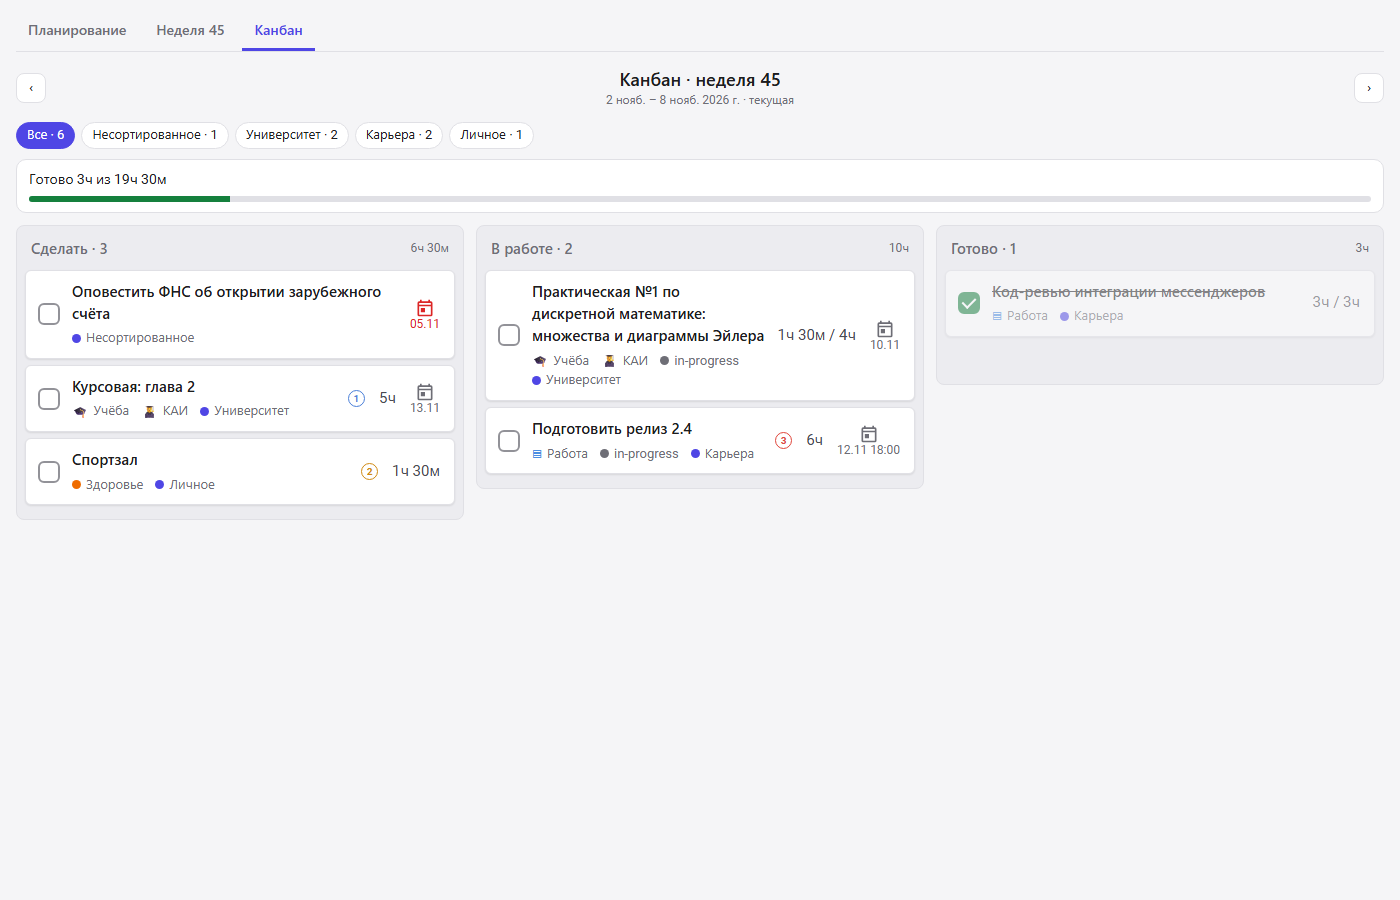
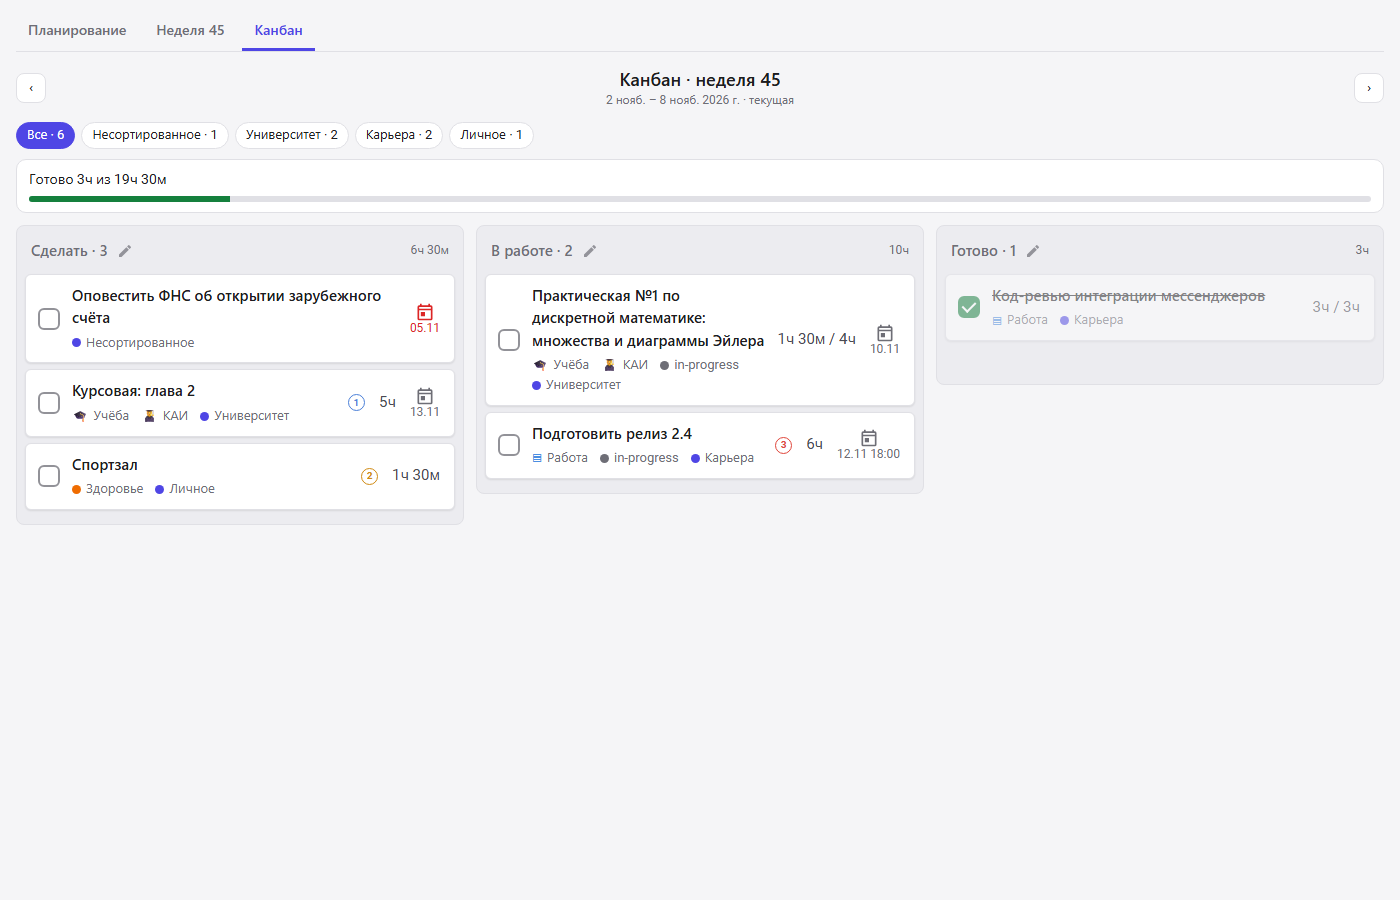
0.11.0: filter & sort for every board column
A pencil button right of the column title opens the filter & sort editor
for that column on the week page (per category) and on the kanban (per status).
The filter only hides cards; hours and limits count all tasks of the column.
Stored in cfg.colViews; a column without own settings uses the common card order.

diff --git a/week-planner/index.html b/week-planner/index.html
@@ -170,6 +170,14 @@
   .bcol.over { border-color: var(--bad); }
   .bcol-head { display: flex; flex-wrap: wrap; align-items: center; justify-content: space-between; gap: 4px 8px; padding: 0 6px; margin-bottom: 10px; color: var(--soft); }
   .bcol-title { font-weight: 600; font-size: 15px; color: var(--muted); }
+  .bcol-name { display: inline-flex; align-items: center; gap: 4px; min-width: 0; }
+  .edit-btn {
+    display: inline-flex; align-items: center; justify-content: center; width: 26px; height: 26px; padding: 0;
+    border: 0; border-radius: 50%; background: transparent; color: var(--muted); opacity: .7;
+  }
+  .edit-btn svg { width: 16px; height: 16px; fill: currentColor; }
+  .edit-btn:hover:not(:disabled) { opacity: 1; color: var(--text); background: var(--accent-soft); }
+  .edit-btn.on { opacity: 1; color: var(--accent); }
   .bcol .bar { margin: 0 6px 10px; flex-basis: auto; }
   .bcol .item { margin-bottom: 6px; }
 
@@ -441,6 +449,10 @@
       edCats: 'Categories and default limits', edCatsHint: 'Categories are the same for every week. Default limits apply to every week except weeks where you set own limits on the week page.',
       catName: 'Name', catLimit: 'default, h', addCat: '+ Category', weekLimit: 'Default week limit, hours',
       cardSort: 'Card order inside columns', untitled: 'Untitled',
+      colEdit: 'Filter & sort of this column', edCol: 'Column «{name}»: filter & sort',
+      edColHint: 'The filter only hides cards. Hours and limits count all tasks of the column.',
+      colHidden: 'hidden {n}', colHiddenTitle: 'Hidden by the column filter. They still count toward the hours.',
+      previewCol: 'Shown now: {a} of {n}', colReset: 'Reset to default',
       edPool: 'Unplanned tasks: filter & sort', noFilter: 'no filter', sortBy: 'sort',
       match: 'Show tasks that match', matchAll: 'all conditions', matchAny: 'any condition',
       conds: 'Conditions', addCond: '+ Condition', sort: 'Sorting', addSort: '+ Sort key',
@@ -521,6 +533,10 @@
       edCats: 'Категории и стандартные лимиты', edCatsHint: 'Категории общие для всех недель. Стандартные лимиты получают все недели, кроме тех, где вы задали свои лимиты на вкладке недели.',
       catName: 'Название', catLimit: 'стандарт, ч', addCat: '+ Категория', weekLimit: 'Стандартный лимит недели, часов',
       cardSort: 'Порядок карточек в колонках', untitled: 'Без названия',
+      colEdit: 'Фильтр и сортировка колонки', edCol: 'Колонка «{name}»: фильтр и сортировка',
+      edColHint: 'Фильтр только скрывает карточки. Часы и лимиты учитывают все задачи колонки.',
+      colHidden: 'скрыто {n}', colHiddenTitle: 'Скрыты фильтром колонки. Часы и лимиты их учитывают.',
+      previewCol: 'Сейчас показано: {a} из {n}', colReset: 'Сбросить',
       edPool: 'Незапланированные задачи: фильтр и сортировка', noFilter: 'без фильтра', sortBy: 'сортировка',
       match: 'Показывать задачи, которые подходят под', matchAll: 'все условия', matchAny: 'любое условие',
       conds: 'Условия', addCond: '+ Условие', sort: 'Сортировка', addSort: '+ Ключ сортировки',
@@ -855,6 +871,50 @@
     return Array.isArray(s) ? s.filter(function (x) { return x && x.field; }) : d;
   }
 
+  // Own filter and sort of a board column. Keys: 'w:<category id>' (week page), 'k:<status>' (kanban).
+  function normColViews(raw) {
+    var out = {};
+    if (!raw || typeof raw !== 'object') return out;
+    Object.keys(raw).forEach(function (k) {
+      var v = raw[k];
+      if (!v || typeof v !== 'object') return;
+      out[k] = {
+        match: v.match === 'any' ? 'any' : 'all',
+        conds: Array.isArray(v.conds) ? v.conds.filter(function (c) { return c && c.field && c.op; }) : [],
+        sort: normSort(v.sort, null)
+      };
+    });
+    return out;
+  }
+  // A stored sort of null means "use the common card order".
+  function colView(key) {
+    var v = (state.cfg.colViews || {})[key];
+    return { match: v ? v.match : 'all', conds: v ? v.conds : [], sort: v && v.sort ? v.sort : state.cfg.cardSort, own: !!v };
+  }
+  // Applies the column view: returns the shown cards and the number of hidden ones.
+  function colItems(key, tasks) {
+    var v = colView(key);
+    var shown = sortTasks(tasks.filter(function (x) { return matchView(x, v); }), v.sort);
+    return { shown: shown, hidden: tasks.length - shown.length, own: v.own };
+  }
+  var PENCIL = '<svg viewBox="0 0 24 24" aria-hidden="true"><path d="M3 17.25V21h3.75L17.81 9.94l-3.75-3.75L3 17.25zM20.71 ' +
+    '7.04a1 1 0 0 0 0-1.41l-2.34-2.34a1 1 0 0 0-1.41 0l-1.83 1.83 3.75 3.75 1.83-1.83z"/></svg>';
+  function colHead(key, name, tasks, view, right) {
+    var btn = el('button', {
+      type: 'button', className: 'edit-btn' + (view.own ? ' on' : ''), title: t('colEdit'), 'aria-label': t('colEdit'),
+      onclick: stop(function () { openEditor('col', { key: key, name: name, tasks: tasks }); })
+    });
+    btn.innerHTML = PENCIL;
+    return el('div', { className: 'bcol-head' }, [
+      el('span', { className: 'bcol-name' }, [
+        el('span', { className: 'bcol-title', text: name + ' · ' + tasks.length }),
+        btn,
+        view.hidden ? el('span', { className: 'muted', title: t('colHiddenTitle'), text: t('colHidden', { n: view.hidden }) }) : null
+      ]),
+      right
+    ]);
+  }
+
   function normCfg(raw) {
     var d = defaultCfg();
     if (!raw || typeof raw !== 'object') return d;
@@ -870,7 +930,8 @@
       weekLimitH: posNum(raw.weekLimitH),
       cardSort: normSort(raw.cardSort, d.cardSort),
       poolPreset: typeof raw.poolPreset === 'string' ? raw.poolPreset : null,
-      progressTagInit: raw.progressTagInit === true
+      progressTagInit: raw.progressTagInit === true,
+      colViews: normColViews(raw.colViews)
     };
     if (Array.isArray(raw.cats)) {
       cfg.cats = raw.cats.filter(function (c) { return c && c.id; }).map(function (c) {
@@ -1790,13 +1851,13 @@
     $('addInput').placeholder = t('addPh', { c: catName(catById(UNSORTED)) });
 
     fill($('weekBoard'), state.cfg.cats.map(function (c) {
-      var items = sortTasks(ld.tasks.filter(function (x) { return catIdOf(x) === c.id; }), state.cfg.cardSort);
+      var all = ld.tasks.filter(function (x) { return catIdOf(x) === c.id; });
+      var view = colItems('w:' + c.id, all);
+      var items = view.shown;
       var h = ld.cats[c.id].h, l = limMs(catLimitH(w, c)), isOver = !!l && h > l;
       var col = el('div', { className: 'bcol' + (isOver ? ' over' : '') }, [
-        el('div', { className: 'bcol-head' }, [
-          el('span', { className: 'bcol-title', text: catName(c) + ' · ' + items.length }),
-          el('span', { className: 'hours' + (isOver ? ' over' : '') }, [fmtDur(h) + ' /', limitInput(c.id), t('h')])
-        ]),
+        colHead('w:' + c.id, catName(c), all, view,
+          el('span', { className: 'hours' + (isOver ? ' over' : '') }, [fmtDur(h) + ' /', limitInput(c.id), t('h')])),
         l ? loadBar(h, l) : null,
         isOver ? el('div', { className: 'muted bad-text', style: 'margin-bottom:6px', text: '⚠ ' + t('over', { t: fmtDur(h - l) }) }) : null,
         items.length ? el('ul', { className: 'list' }, items.map(weekCardTask)) : el('p', { className: 'muted empty', text: t('emptyCol') })
@@ -1867,12 +1928,11 @@
     ]);
 
     fill($('kBoard'), STATUSES.map(function (s) {
-      var list = sortTasks(items.filter(function (x) { return statusOf(x) === s; }), state.cfg.cardSort);
+      var all = items.filter(function (x) { return statusOf(x) === s; });
+      var view = colItems('k:' + s, all);
+      var list = view.shown;
       var col = el('div', { className: 'bcol st-' + s }, [
-        el('div', { className: 'bcol-head' }, [
-          el('span', { className: 'bcol-title', text: t('st_' + s) + ' · ' + list.length }),
-          el('span', { className: 'muted', text: fmtDur(hoursOf(list)) })
-        ]),
+        colHead('k:' + s, t('st_' + s), all, view, el('span', { className: 'muted', text: fmtDur(hoursOf(all)) })),
         list.length ? el('ul', { className: 'list' }, list.map(kanbanCard)) : el('p', { className: 'muted empty', text: t('emptyCol') })
       ]);
       makeDropTarget(col, function (id) {
@@ -2211,11 +2271,15 @@
   }
 
   // ---------- editors ----------
-  function openEditor(kind) {
-    var draft = kind === 'pool'
-      ? JSON.parse(JSON.stringify(activePoolView()))
-      : JSON.parse(JSON.stringify({ cats: state.cfg.cats, weekLimitH: state.cfg.weekLimitH, cardSort: state.cfg.cardSort }));
-    editor = { kind: kind, draft: draft, orig: JSON.stringify(draft), armed: null, discardArmed: false };
+  // col: { key, name, tasks } of the board column, for kind 'col'.
+  function openEditor(kind, col) {
+    var draft;
+    if (kind === 'pool') draft = JSON.parse(JSON.stringify(activePoolView()));
+    else if (kind === 'col') {
+      var v = colView(col.key);
+      draft = JSON.parse(JSON.stringify({ match: v.match, conds: v.conds, sort: v.sort }));
+    } else draft = JSON.parse(JSON.stringify({ cats: state.cfg.cats, weekLimitH: state.cfg.weekLimitH, cardSort: state.cfg.cardSort }));
+    editor = { kind: kind, col: col || null, draft: draft, orig: JSON.stringify(draft), armed: null, discardArmed: false };
     $('overlay').hidden = false;
     renderEditor();
   }
@@ -2376,7 +2440,11 @@
   function updatePreview() {
     var p = $('edPreview');
     if (!p || !editor) return;
-    p.textContent = editor.kind === 'pool' ? t('previewPool', { n: poolTasks(editor.draft).length }) : '';
+    if (editor.kind === 'pool') p.textContent = t('previewPool', { n: poolTasks(editor.draft).length });
+    else if (editor.kind === 'col') {
+      var all = editor.col.tasks;
+      p.textContent = t('previewCol', { a: all.filter(function (x) { return matchView(x, editor.draft); }).length, n: all.length });
+    } else p.textContent = '';
   }
 
   function catRows(d) {
@@ -2413,9 +2481,14 @@
     if (!editor) return;
     var d = editor.draft;
     var nodes = [];
-    if (editor.kind === 'pool') {
-      nodes.push(el('h2', { text: t('edPool') }));
-      if (activePreset()) nodes.push(el('p', { className: 'muted', text: t('edPoolFrom', { p: presetLabel(activePreset().id) }) }));
+    if (editor.kind === 'pool' || editor.kind === 'col') {
+      if (editor.kind === 'pool') {
+        nodes.push(el('h2', { text: t('edPool') }));
+        if (activePreset()) nodes.push(el('p', { className: 'muted', text: t('edPoolFrom', { p: presetLabel(activePreset().id) }) }));
+      } else {
+        nodes.push(el('h2', { text: t('edCol', { name: editor.col.name }) }));
+        nodes.push(el('p', { className: 'muted', text: t('edColHint') }));
+      }
       var matchSel = el('select');
       matchSel.appendChild(el('option', { value: 'all', text: t('matchAll') }));
       matchSel.appendChild(el('option', { value: 'any', text: t('matchAny') }));
@@ -2450,6 +2523,10 @@
     }
     if (editor.discardArmed) nodes.push(el('div', { className: 'notice', role: 'alert', text: t('unsaved') }));
     nodes.push(el('div', { className: 'modal-foot' }, [
+      editor.kind === 'col' ? el('button', {
+        type: 'button', text: t('colReset'),
+        onclick: function () { editor.draft = { match: 'all', conds: [], sort: JSON.parse(JSON.stringify(state.cfg.cardSort)) }; renderEditor(); }
+      }) : null,
       el('span', { className: 'grow' }),
       el('button', { type: 'button', text: editor.discardArmed ? t('discard') : t('cancel'), onclick: requestCloseEditor }),
       el('button', { type: 'button', id: 'edSave', className: 'primary', text: t('save'), onclick: run(saveEditor) })
@@ -2484,6 +2561,12 @@
     if (editor.kind === 'pool') {
       state.cfg.pool = { id: 'pool', match: d.match === 'any' ? 'any' : 'all', conds: d.conds, sort: d.sort };
       state.cfg.poolPreset = null; // the edited filter becomes "My filter"
+    } else if (editor.kind === 'col') {
+      var views = state.cfg.colViews = state.cfg.colViews || {};
+      var sameSort = JSON.stringify(d.sort) === JSON.stringify(state.cfg.cardSort);
+      // A column without conditions and with the common order keeps following the common order.
+      if (!d.conds.length && sameSort) delete views[editor.col.key];
+      else views[editor.col.key] = { match: d.match === 'any' ? 'any' : 'all', conds: d.conds, sort: sameSort ? null : d.sort };
     } else {
       state.cfg.cats = d.cats.map(function (c) {
         var name = (c.name || '').trim();

diff --git a/tests/smoke.test.js b/tests/smoke.test.js
@@ -387,6 +387,74 @@ function drag(w, from, to) {
     });
   }
 
+  // ---------- column filter & sort (pencil) ----------
+  {
+    const { w, $ } = open('?page=week');
+    await wait(150);
+    const career = () => colByTitle($('weekBoard'), 'Карьера');
+    check('every week column has a pencil button', () => {
+      assert.strictEqual($('weekBoard').querySelectorAll('.bcol-head .edit-btn').length, 4);
+    });
+    career().querySelector('.edit-btn').click();
+    check('the pencil opens the column editor', () => {
+      assert.ok(!$('overlay').hidden);
+      assert.ok($('modal').textContent.includes('Колонка «Карьера»: фильтр и сортировка'));
+      assert.ok($('modal').textContent.includes('Сейчас показано: 2 из 2'));
+    });
+    btn($('modal'), '+ Условие').click();
+    const fieldSel = $('modal').querySelector('.cond select');
+    fieldSel.value = 'isDone';
+    fieldSel.dispatchEvent(new w.Event('change'));
+    const opSel = $('modal').querySelectorAll('.cond select')[1];
+    opSel.value = 'isFalse';
+    opSel.dispatchEvent(new w.Event('change'));
+    check('the preview counts the shown cards', () => {
+      assert.ok($('modal').textContent.includes('Сейчас показано: 1 из 2'), $('modal').textContent);
+    });
+    btn($('modal'), 'Сохранить').click();
+    await wait(50);
+    check('the column filter hides cards, the header shows the hidden count, hours stay', () => {
+      assert.deepStrictEqual(names(career()), ['Подготовить релиз 2.4']);
+      assert.ok(career().querySelector('.bcol-head').textContent.includes('скрыто 1'));
+      assert.ok(career().querySelector('.edit-btn').classList.contains('on'));
+      assert.ok(career().querySelector('.bcol-title').textContent === 'Карьера · 2');
+      assert.ok(career().querySelector('.hours').textContent.startsWith('9ч'));
+      const v = JSON.parse(w.__store.cfg).colViews['w:career'];
+      assert.deepStrictEqual(v.conds.map((c) => [c.field, c.op]), [['isDone', 'isFalse']]);
+      assert.strictEqual(v.sort, null);
+    });
+    career().querySelector('.edit-btn').click();
+    btn($('modal'), 'Сбросить').click();
+    btn($('modal'), 'Сохранить').click();
+    await wait(50);
+    check('"Reset" returns the column to the common view', () => {
+      assert.strictEqual(names(career()).length, 2);
+      assert.ok(!JSON.parse(w.__store.cfg).colViews['w:career']);
+    });
+  }
+  {
+    const { w, $ } = open('?page=kanban');
+    await wait(200);
+    const todo = () => colByTitle($('kBoard'), 'Сделать');
+    todo().querySelector('.edit-btn').click();
+    check('kanban columns have the pencil too', () => {
+      assert.ok($('modal').textContent.includes('Колонка «Сделать»: фильтр и сортировка'));
+    });
+    const firstSort = $('modal').querySelectorAll('.sortrow')[1]; // row 0 is "match all / any"
+    const [field, dir] = firstSort.querySelectorAll('select');
+    field.value = 'title';
+    field.dispatchEvent(new w.Event('change'));
+    dir.value = 'desc';
+    dir.dispatchEvent(new w.Event('change'));
+    btn($('modal'), 'Сохранить').click();
+    await wait(50);
+    check('own sort of a kanban column is applied and stored', () => {
+      const n = names(todo());
+      assert.deepStrictEqual(n, n.slice().sort((a, b) => b.localeCompare(a, 'ru')));
+      assert.strictEqual(JSON.parse(w.__store.cfg).colViews['k:todo'].sort[0].field, 'title');
+    });
+  }
+
   // ---------- #in-progress tag set in Super Productivity ----------
   {
     const { w, $ } = open('?page=kanban&ptag=1');

diff --git a/README.md b/README.md
@@ -33,6 +33,8 @@ plan tasks for whole weeks, sort them into categories with hour limits, and work
 - Щелчок по оценке на карточке («1ч» или «+ оценка») открывает выбор оценки.
 - У каждой категории свой лимит часов, у недели — общий лимит. При превышении появляются баннер, красная колонка и уведомление.
 - Сумма лимитов категорий не может быть больше лимита недели.
+- Карандаш справа от названия колонки открывает фильтр и сортировку этой колонки. Фильтр только скрывает карточки:
+  часы и лимиты учитывают все задачи колонки, а в заголовке видно «скрыто N». Настройки действуют на все недели.
 - Категории и **стандартные лимиты** задаются кнопкой «Категории и стандартные лимиты». Их получают все недели.
 - Лимиты в заголовках колонок и на панели меняют **только эту неделю**. После первой правки неделя получает
   свои лимиты, и новые стандартные лимиты её больше не меняют. Кнопка «Вернуть стандартные» отменяет свои лимиты недели.
@@ -48,6 +50,7 @@ plan tasks for whole weeks, sort them into categories with hour limits, and work
   Если метки нет, плагин создаёт её сам. При первом запуске задачи, которые уже стояли в «В работе», получают метку.
 - Статус меняется перетаскиванием, флажком на карточке или пунктом «Статус» в меню задачи.
 - Фильтр по категориям сверху.
+- У колонок канбана тоже есть карандаш с фильтром и сортировкой.
 
 ### Меню задачи
 

diff --git a/CHANGELOG.md b/CHANGELOG.md
@@ -2,6 +2,14 @@
 
 The project is in early development (0.x). Data formats and UI may still change.
 
+## 0.11.0 — 2026-11-09
+
+- **Filter & sort for every board column.** A pencil button right of the column title opens the editor
+  on the week page (per category) and on the kanban (per status). The editor is the same as for the unplanned pool.
+- The filter only hides cards: hours and limits count all tasks of the column. The header shows "hidden N".
+- A column without its own settings uses the common card order. "Reset" returns a column to it.
+- Stored in `cfg.colViews` with keys `w:<category id>` and `k:<status>`; the settings apply to every week.
+
 ## 0.10.0 — 2026-11-09
 
 - **Cards look like the Super Productivity board**: round checkbox box, larger title, parent task above a subtask,
